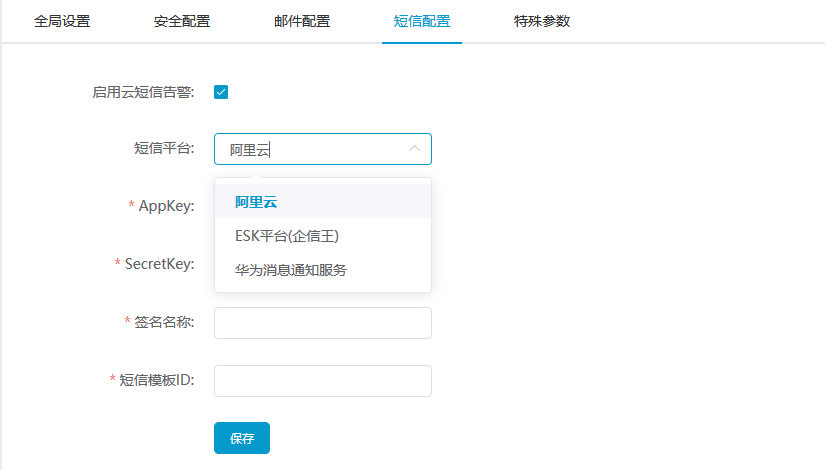
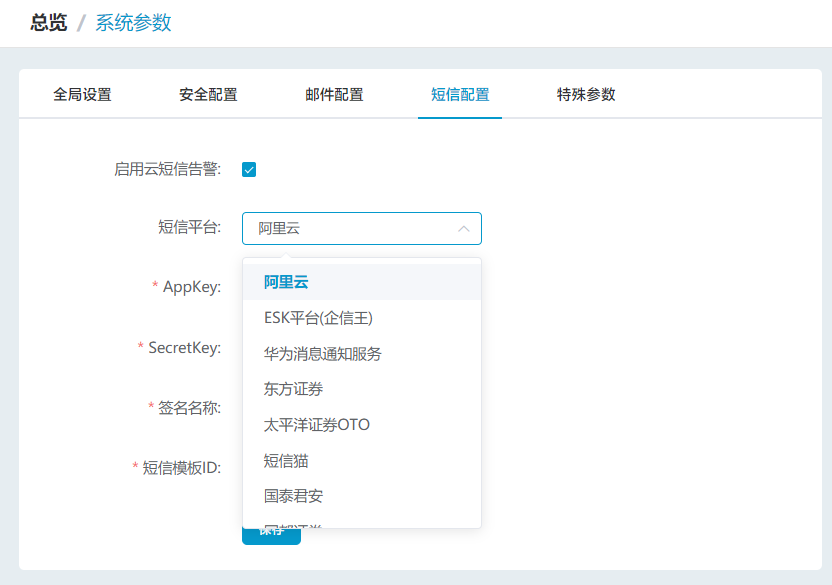
IM: 系统配置，手册更新短信平台配置；

diff --git a/system_management/sys_settings.md b/system_management/sys_settings.md
@@ -56,20 +56,30 @@
 
 * “启用短信告警”：启用短信告警功能。
 
-* “短信平台”：目前支持阿里大于、阿里云短信平台、ESK平台（企信王）、华为消息通知服务。
+* “短信平台”：目前支持阿里云短信平台、华为消息通知服务、ESK平台（企信王）、太平洋证券OTO、国泰君安、国都证券、东方证券、短信猫。
 
-* 阿里大于/阿里云
+注：
+
+* 以下涉及的短信模板都需要包含这些变量：
+
+  * ${username}：用户名，即短信中的节点/规则的创建者。
+  * ${module}：模块名称，如“复制规则”。
+  * ${name}：短信中的节点/规则的名称。
+  * ${status}：短信中的节点/规则的状态。
+  * ${relevant_res}：短信中规则的相关资源。
+  * ${time}：短信发送的时间。
+  
+* 示例：
+
+  * 如果模板配置为：${username}你好，${module} 功能的 ${name}，状态：${status}，时间${time}，所用节点/平台：${nodes1}，请登录控制台查看。
+  * 则收到短信为：admin 你好，复制规则 功能的 规则1，状态：停止，时间 2019年1月1日11:11，所用节点/平台：节点1、节点2，请登录控制台查看。
+
+* 阿里云
 
   * “APPKey”：需要在阿里大于/阿里云短信平台注册账号，在管理控制台中的应用管理中获取APPKey。
   * “SecretKey”：阿里大于/阿里云平台中，在管理控制台中的应用管理中获取SecretKey。
   * “签名名称”： 在阿里大于/阿里云的配置管理中短信通知的配置短信签名中获取签名名称。
-  * “短信模板ID”：在阿里大于/阿里云的短信模板ID
-
-* ESK平台（企信王）
-
-  * “ESK服务地址”： 格式： "SERVER\_IP:SERVER\_PORT"（例如：192.168.1.100:8080）。
-  * “用户名”： ESK平台用户名或华为云用户名。
-  * “密码”： ESK平台登录密码或华为云用户登录密码。
+  * “短信模板ID”：在阿里大于/阿里云的短信模板ID。
 
 * 华为消息通知服务
 
@@ -77,6 +87,26 @@
   * “所属区域”： RegionName为cn-north-1、cn-south-1 或者cn-east-2；获取地址：[https://developer.huaweicloud.com/endpoint。](https://developer.huaweicloud.com/endpoint。)
   * “主题的URN”： 主题的URN， 华为云控制台创建，urn串。
   * “短信模板ID”：华为SMN消息主题模板。
+
+* ESK平台（企信王）、太平洋证券OTO、国泰君安、国都证券
+
+  * “服务地址”： 格式： "SERVER\_IP:SERVER\_PORT"（例如：192.168.1.100:8080）。
+  * “用户名”： 上述这些平台的用户名。
+  * “密码”： 上述这些平台的登录密码。
+
+* 东方证券
+
+  * “服务地址”： 格式： "SERVER\_IP:SERVER\_PORT"（例如：192.168.1.100:8080）。
+  * “用户名”： 东方证券短信平台用户名。
+  * “密码”： 东方证券短信平台登录密码。
+  * “短信模板ID”： 东方证券短信平台上配置的短信模板ID。
+
+* 短信猫
+
+  * “串口”：短信猫连接后，占用的串口号。Windows下用COMn，例如：COM1 (Linux下也可以用，COM1表示/dev/ttyS0)。
+  * “波特率”：默认9600，不用修改，短信测试异常可以调整该值。Windows可以在串口属性中设置和查看。
+  * 针对无法访问外网的用户，可以使用短信猫来接收短信告警通知。
+  * 注：需要在控制机上通过串口连接短信猫设备。短信猫型号：目前仅支持JYC311-232。
 
 **备注：**
 
@@ -89,13 +119,14 @@
 
 ![](/assets/Catch0294%2805-28-18-30-30%29.jpg)
 
-* 再创建一个模板，类型选择短信；华为要求同时创建一个协议为Default的同名的模板：  
+* 再创建一个模板，类型选择短信；华为要求同时创建一个协议为Default的同名的模板：
   ![](/assets/Catch8F04%2805-28-18-30-30%29.jpg)
 
-* 再添加订阅，这里协议可以选择短信和邮件以及其他的：  
+* 再添加订阅，这里协议可以选择短信和邮件以及其他的：
   ![](/assets/Catch0294%2805-28-18-30-30%29.jpg)
 
-如下是**阿里云**获取信息  
+如下是**阿里云**获取信息
+
 如下是具体的appkey、SecretKey获取:
 
 ![](/assets/V6.118042602.png)
